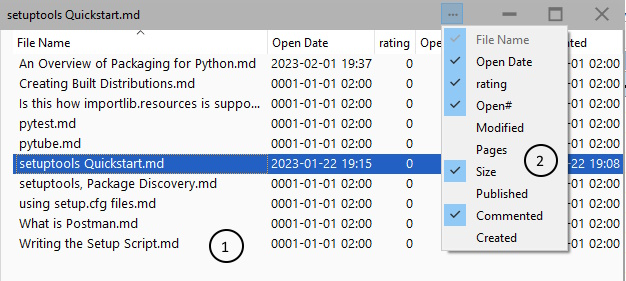
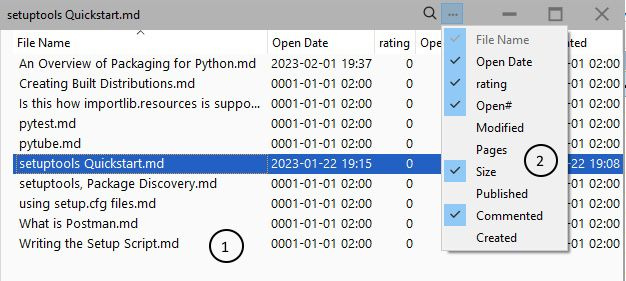
readme.md

diff --git a/README.md b/README.md
@@ -6,26 +6,27 @@ Fileo[fɑɪlɔ] - could be FileOrganizer, but that doesn't matter.
 
 The graphical interface is shown in the image below.
 
-![fileo](img/fileo.jpg)
+![fileo](https://github.com/Michal-D4/fileo/raw/main/img/fileo.jpg)
 
 ## The GUI elements:
 
-1. the application mode
-2. the menu button to hide/show the left pane widgets: folders, tags, file extensions, authors
+1. The label to display application mode
+2. the button to display menu to hide/show the widgets("Folders", "Tags", "File Extensions", "Authors") on the left pane. All menu items checked in the image &ndash; this means that all widgets are visible.
 3. the name of current file
-4. menu button to select which fields will be visible in the file list
-5. the name of the current database
-6. the branch of folder tree from the root to the current folder
-7. the left toolbar, it contains the following buttons from top to bottom:
+4. buttons to search files by name and to select which fields will be visible in the file list
+5. the group of buttons for working with the tree of folders
+6. the left toolbar, it contains the following buttons from top to bottom:
    1. button to chose/create the data base file
    2. selection of the "DIR" mode of application, the file list shows the files from the current folder
    3. selection of the "FILTER" mode, the list of files shows the files according to the filter settings
    4. open the filter settings dialog, switch application into "FILTER_SETUP" mode
    5. open dialog to scan the file system to load files into the database
    6. hide/show left pane
-   7. menu button   &mdash;   do nothing yet
-8. the dialog to start scan the file system folders for files
-9. the panel to show/edit file data: comments(notes), tags, authors(for books), locations - the folder branches where the current file can be found - file may reside in the several folders.
+   7. menu button
+7. the list of files from selected folder, of created by filter
+8. the name of the current database
+9. the branch of folder tree from the root to the current folder
+10. the panel to show/edit file data: comments(notes), tags, authors(for books), locations - the folder branches where the current file can be found - file may reside in the several folders.
 
 The application works in three main modes: DIR, FILTER and FILTER_SETUP. In DIR mode, files are selected by the current directory in the "Folders" widget.
 
@@ -62,26 +63,26 @@ You can also copy/move files from one folder to another. **Copying** is carried 
 
 There are two method to add files:
 
-1. Open "Search for files..." dialog with the button ![image-20230210145215938](img/image-20230210145215938.png)
+1. Open "Search for files..." dialog with the button ![image-20230210145215938](https://github.com/Michal-D4/fileo/raw/main/img/image-20230210145215938.png)
 
-   ![image-20230210145404623](img/image-20230210145404623.png)
+   ![image-20230210145404623](https://github.com/Michal-D4/fileo/raw/main/img/image-20230210145404623.png)
 
 2. drag files from the file explorer (or similar application) to the folder in the folder tree.
 
 > **Note**. Scanning the file system can be quite lengthy, so it is performed in a separate thread.
 > The red circle in the lower left corner is a sign that the thread is working:
 >
-> ![image-20230213184306153](img/image-20230213184306153.png)
+> ![image-20230213184306153](https://github.com/Michal-D4/fileo/raw/main/img/image-20230213184306153.png)
 >
-> Only one thread can run at time. The user interface is not blocking but you should avoid to perform operation that make changes in the database, for example, drag-drop operations. But you can change the list of files by changing a current folder or filter, or you can open files.
+> Only one background thread can run at a time - this is the design of the application. The user interface is not blocking but you should avoid to perform operation that make changes in the database, for example, drag-drop operations. But you can change the list of files by changing a current folder or filter, or you can open files.
 
 3. You can export the selected files (with all their attributes) from one database using the file list context menu
 
-   ![export-files](img/export-files.jpg)
+   ![export-files](https://github.com/Michal-D4/fileo/raw/main/img/export-files.jpg)
 
    and then import them to another database
 
-   ![import-files](img/import-files.jpg)
+   ![import-files](https://github.com/Michal-D4/fileo/raw/main/img/import-files.jpg)
 
    to the folder "New folder" in this case.
 
@@ -89,7 +90,7 @@ There are two method to add files:
 
 Firstly you should setup the filter:
 
-![image-20230213185910924](img/image-20230213185910924.png)
+![image-20230213185910924](https://github.com/Michal-D4/fileo/raw/main/img/image-20230213185910924.png)
 
 With filter defined on the picture the file list will include files from folders `DB`, `ML` and `Rust`, that has at least one of tags `Math`, `ML` or `package`, has rating greater than 4, and opened after `2022-09-14`.
 
@@ -99,9 +100,15 @@ The Apply button applies a specified filter without closing the Filter Setup dia
 
 The button Done applies a filter, closing dialog and switch application into "Filter mode". In this mode when you change selection in one of the widgets in the left pane (Folders, Tags, Extensions, Authors) the list of files is changing accordingly.
 
+### How to find files by name
+
+![image-20230428203253627](https://github.com/Michal-D4/fileo/raw/main/img/find_file.jpg)
+
+
+
 ### How to make notes to the file
 
-![fileo-comments](img/fileo-comments.jpg)
+![fileo-comments](https://github.com/Michal-D4/fileo/raw/main/img/fileo-comments.jpg)
 
 1. "+"  plus button - add new note and open it in the editor
 6. "x" button - delete the note
@@ -109,7 +116,7 @@ The button Done applies a filter, closing dialog and switch application into "Fi
 
 #### Note editor
 
-![edit-comment](C:\Users\mihal\OneDrive\Documents\pyprj\fileo\img\edit-comment.jpg)
+![edit-comment](https://github.com/Michal-D4/fileo/raw/main/img/edit-comment.jpg)
 
 1. the save changes button
 2. the button to discard changes
@@ -118,7 +125,7 @@ Note is a markdown text.
 
 ### Tag selector
 
-![tag-selector](C:\Users\mihal\OneDrive\Documents\pyprj\fileo\img\tag-selector.jpg)
+![tag-selector](https://github.com/Michal-D4/fileo/raw/main/img/tag-selector.jpg)
 
 1. The list of tags associated with the current file. You can input here a list of tags separated by commas. It is the only place where the new tag can be created. The new tags will appear in the list 2 and 4.
 2. The list of tags. The tags selected in this list apply to the file filter. 
@@ -127,7 +134,7 @@ Note is a markdown text.
 
 ### Author selector
 
-![author-selector](C:\Users\mihal\OneDrive\Documents\pyprj\fileo\img\author-selector.jpg)
+![author-selector](https://github.com/Michal-D4/fileo/raw/main/img/author-selector.jpg)
 
 1. The list of authors associated with the current file. You can input here a list of authors separated by commas (in square brackets if author name contains comma as in "Vaughan, Lee", otherwise it may be entered without brackets, but new authors without brackets must be in the end of list). It is the only place where the new author can be created. The new authors will appear in the list 2 and 4.
 2. The list of authors. The authors selected in this list apply to the file filter. 
@@ -136,13 +143,13 @@ Note is a markdown text.
 
 ### Locations
 
-![Locations](C:\Users\mihal\OneDrive\Documents\pyprj\fileo\img\Locations.jpg)
+![Locations](https://github.com/Michal-D4/fileo/raw/main/img/Locations.jpg)
 
 The current file "Environment Variables in Linux.md" has 5 locations (Paths/Folder Tree branches).
 
 The letters "C" and "H" in brackets means "Copy" and "Hidden". "Copy" and "Hidden" are attributes of folder. For example, the folder "fileo" in the path 2 is a copy of the folder "fileo" in the path 1; the folder "Linux" is "Hidden", but it is shown in the picture below because of the "FOLDERS" widget is in "Show hidden folders" mode:
 
-![Folders](C:\Users\mihal\OneDrive\Documents\pyprj\fileo\img\Folders.jpg)
+![Folders](https://github.com/Michal-D4/fileo/raw/main/img/Folders.jpg)
 
 1. The "FOLDERS" widget
 2. The check box. It is used to switch the "FOLDERS" widget to the "Show hidden folders" mode. The folders "@@Lost" and "Linux" are hidden; "fileo" and "New folder1" in the folder "New folder2" are copies. The only difference between folder and its copies is that when you delete folder all its copies and all its children will be deleted too, whereas deletion of any copy of folder does not impact any other folder.
@@ -150,11 +157,12 @@ The letters "C" and "H" in brackets means "Copy" and "Hidden". "Copy" and "Hidde
 
 ### File info
 
-![file-info](C:\Users\mihal\OneDrive\Documents\pyprj\fileo\img\file-info.jpg)
+![file-info](https://github.com/Michal-D4/fileo/raw/main/img/file-info.jpg)
 
 The "File rating" and "Pages" can be edited here. But they also can be edited directly in the file list if visible:
 
-![file-list-fields](C:\Users\mihal\OneDrive\Documents\pyprj\fileo\img\file-list-fields.jpg)
+![file-list-fields](https://github.com/Michal-D4/fileo/raw/main/img/file-list-fields.jpg)
 
 1. The file list
-2. Menu to select fields visible in the file list. The checked fields are visible, the field "File Name" is alwais visible.
+2. Menu to select fields visible in the file list. The checked fields are visible, the field "File Name" is always visible.
+
